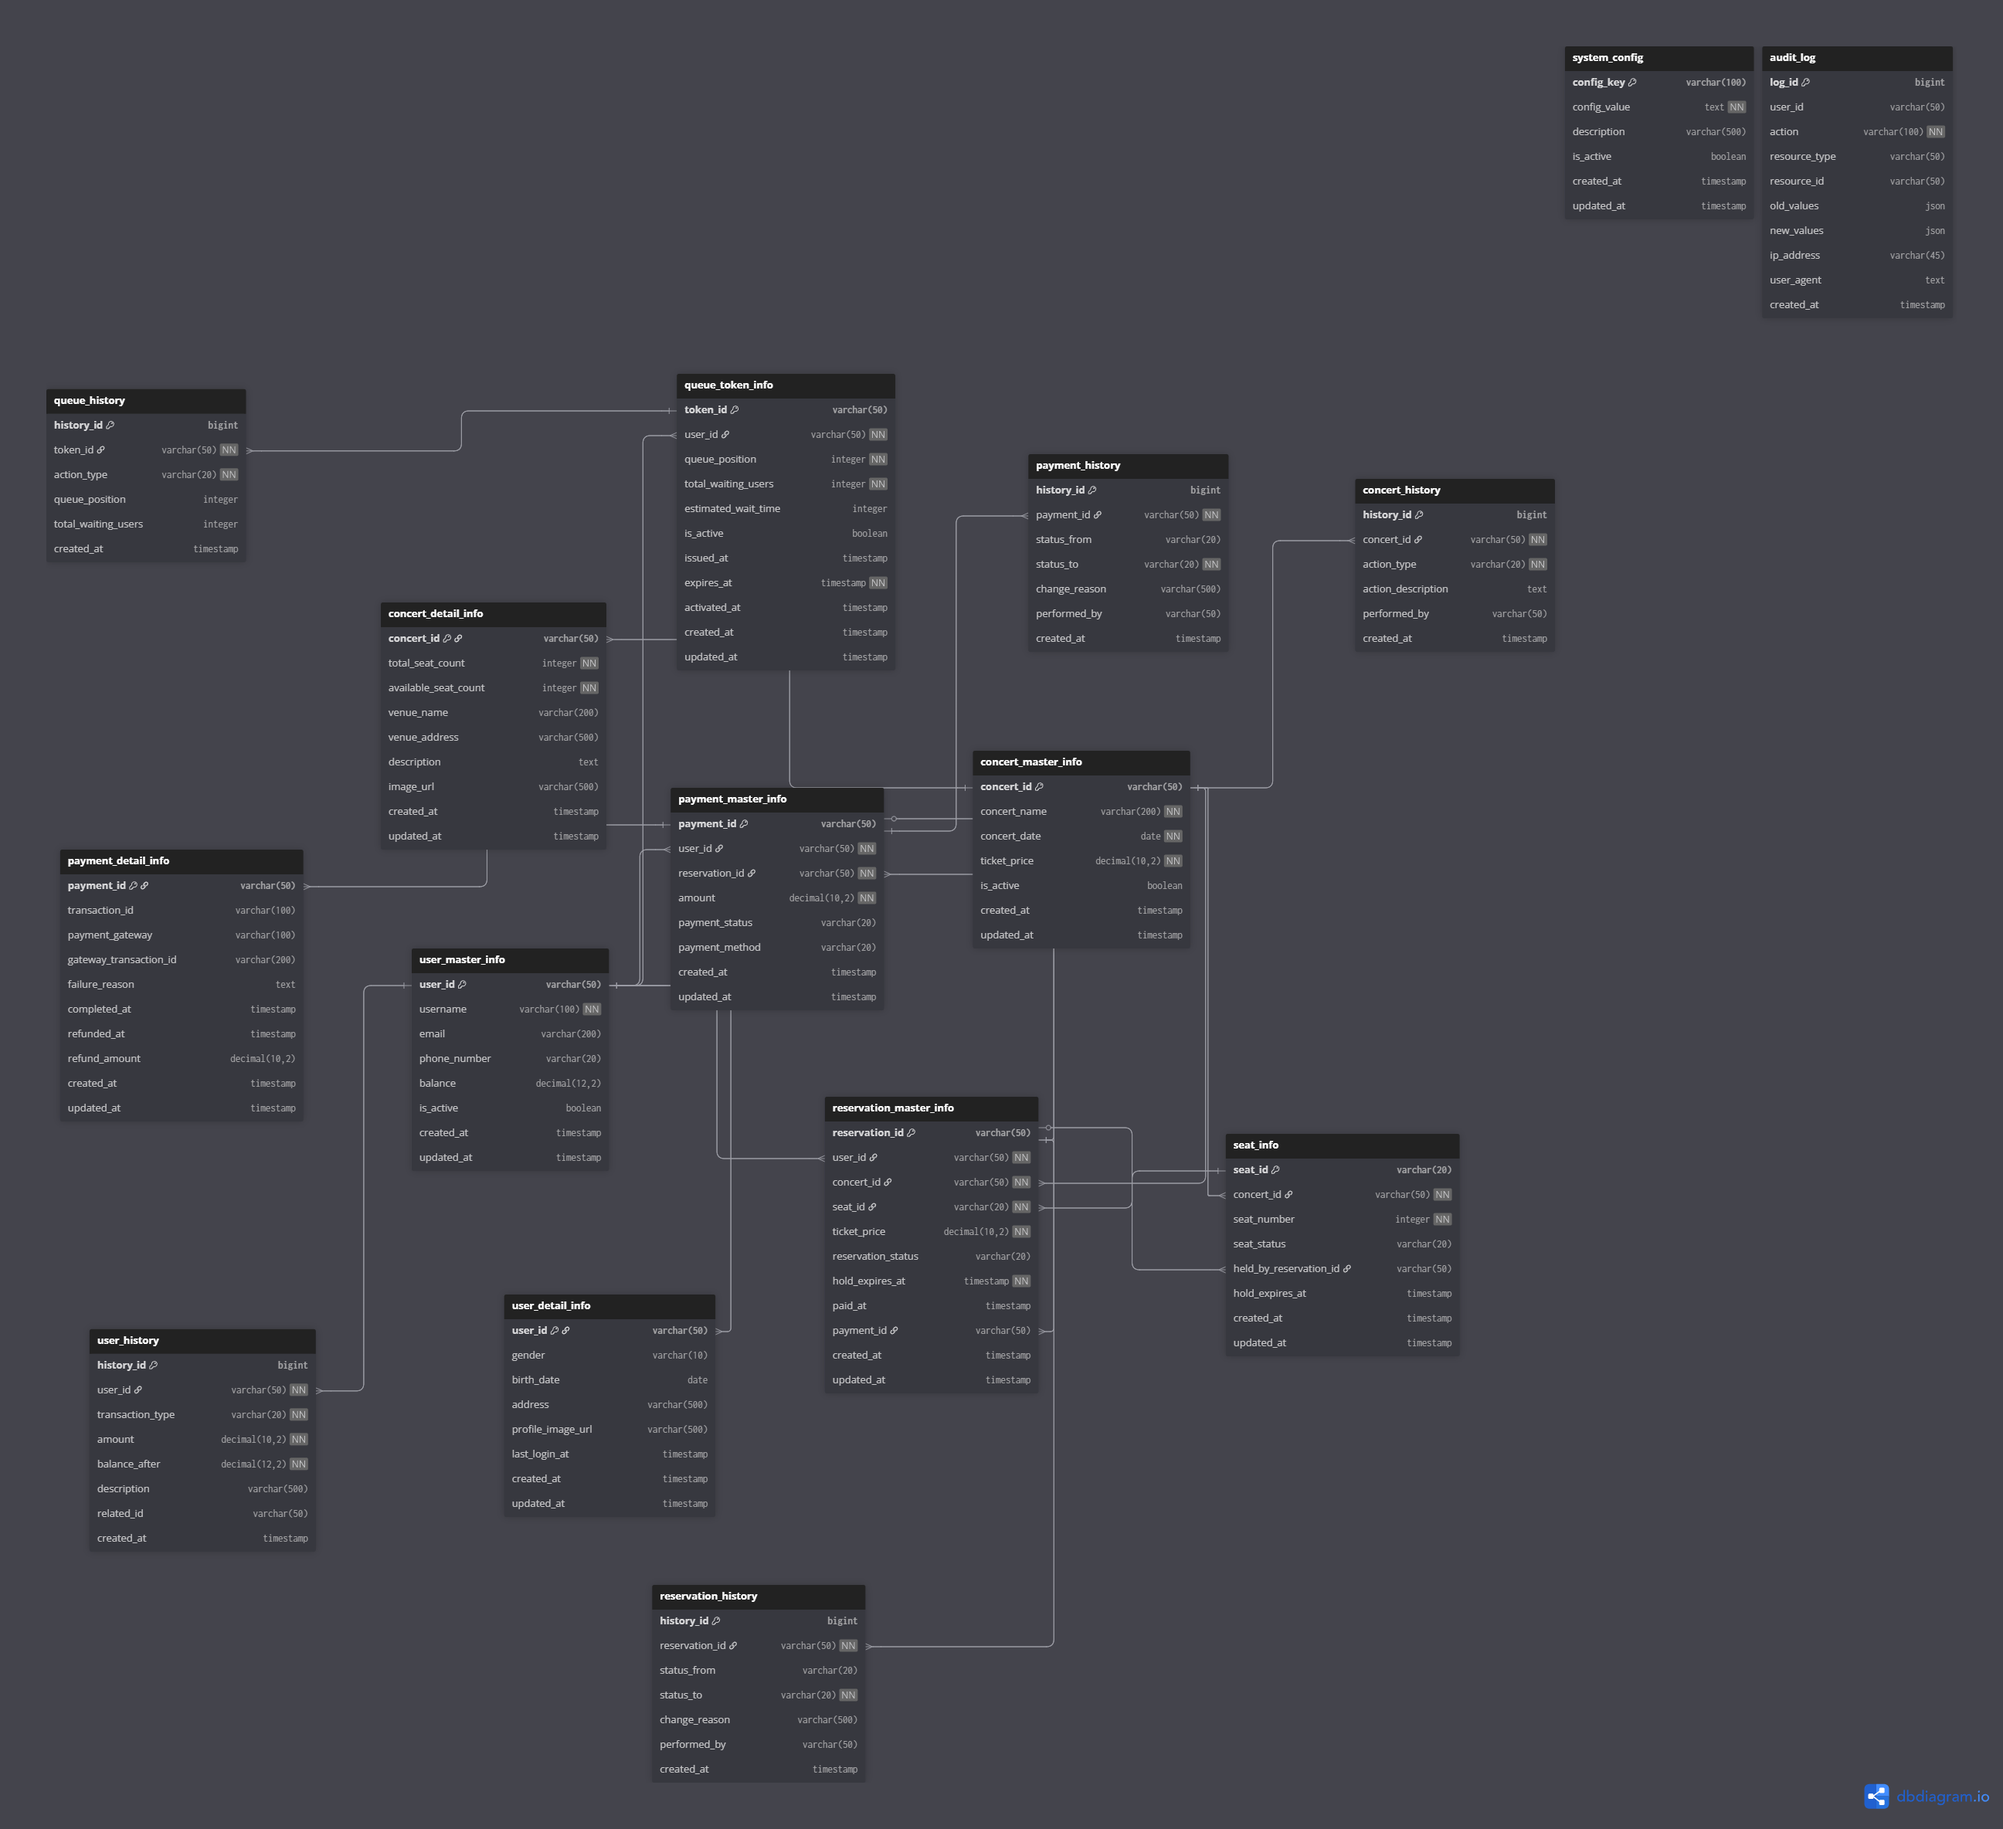
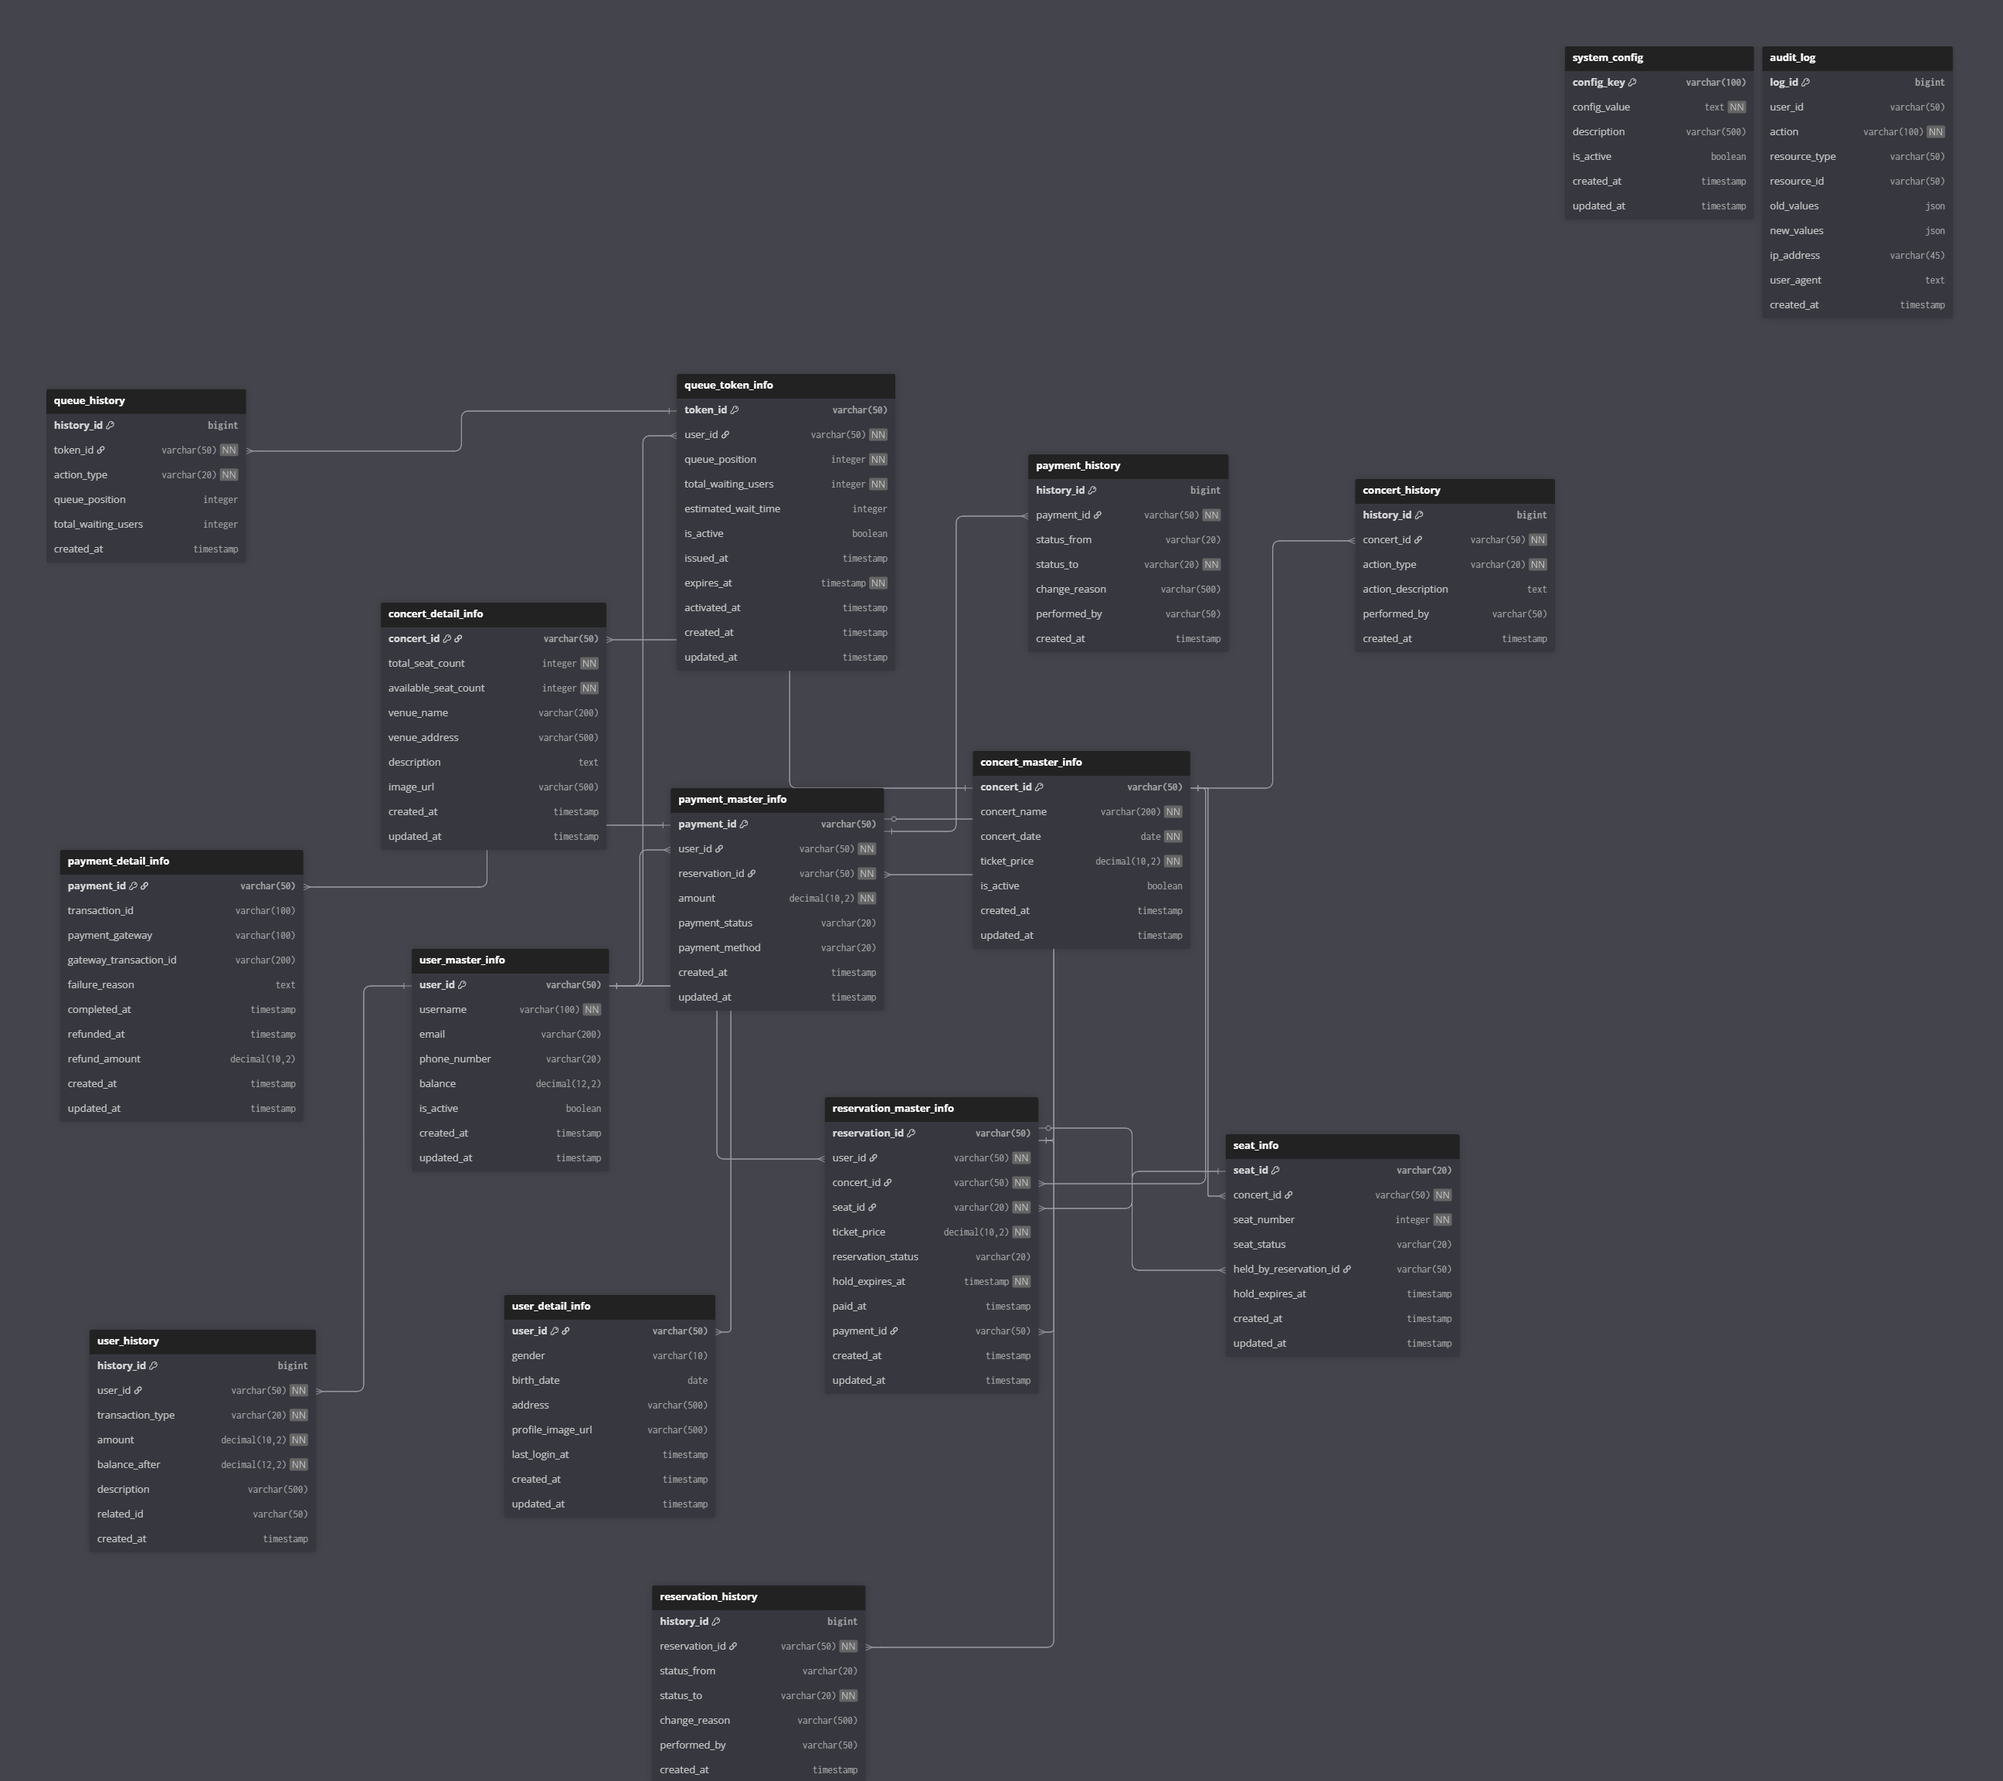
구성도 수정

diff --git a/docs/Infra_spec.md b/docs/Infra_spec.md
@@ -1,0 +1,73 @@
+1. AWS Cloud 기준 작성
+ (ROUTE53역할)
+www.example.com 같은 도메인 이름을 IP 주소로 변환해줌.
+
+ EC2 서버, ALB, CloudFront 같은 AWS 리소스에 도메인 연결할 때 필요.
+
+EC2, S3, ELB, CloudFront, API Gateway 같은 AWS 서비스에 바로 연결 가능.
+
+Route53이 지정한 엔드포인트를 주기적으로 체크해서 장애가 발생하면 자동으로 다른 리소스로 라우팅.
+
+
+
+
+ (ALB 역할)
+예를 들어 gyuseok.com 으로 요청시 “gyuseok.com = ALB 주소” 를 알려주는 역할.여기서 IP를 직접 주는 게 아니라, 보통은 ALB의 DNS 이름 (예: my-alb-123456.ap-northeas-2.elb.amazoaws.com)을 리턴함.
+
+ ALB는 DNS가 안내해준 트래픽을 받아서, 실제 백엔드 서버로 분산 처리
+
+이 그림에서는 로드벨런싱 역할이 주가 되어 사용할 것으로 작성함
+
+
+ (WAF 역할)
+ALB 랑 한 세트 ALB 가 로드밸런싱 헬스체크 등 서버로 분배를 처리한다면 WAF 는 스크립트 형식의 룰 설정을통해서 보안처리를 할 수 있
+
+공격 패턴 차단
+
+SQL Injection, XSS(스크립트 삽입) 같은 웹 공격 탐지 & 차단.
+
+AWS에서 제공하는 관리형 룰셋(Microsoft, Owasp Top 10 대응) 사용 가능.
+
+IP 기반 차단/허용
+
+특정 국가(GeoIP), 특정 IP 대역 블록.
+
+예: “중국, 러시아 IP는 차단” 같은 정책.
+
+Rate Limiting (속도 제한)
+
+같은 IP에서 너무 많은 요청이 오면 일정 횟수 이상 차단.
+
+디도스(DDoS) 완화.
+
+커스텀 룰 작성
+
+특정 URI, 헤더, 쿼리 파라미터 조건으로 룰 만들 수 있음.예: /admin 경로는 특정 IP에서만 접근 허용.
+
+
+ (WEB 역할)
+콘텐츠 처리 및 WAS 로 전달
+
+
+
+ (WAS역할)
+콘서트 예약 어플리케이션 실 구현
+
+ (REDIS 역할)
+AWS 에서 redis 를 제공하는지 처음알게 됨① 캐시(Cache)
+자주 조회하는 데이터를 Redis에 저장해두고 DB 접근 줄이기.
+② 세션 저장
+사용자가 로그인하면 세션 정보를 Redis에 저장.
+
+서버가 여러 대(WAS 멀티 인스턴스)일 때 세션을 공유할 수 있음.
+
+③ 분산 락
+여러 서버/스레드가 동시에 같은 자원에 접근할 때 충돌 방지.
+
+예: 동시에 두 명이 같은 좌석 예약하는 상황 → Redis 락으로 한 명만 성공하게 제어.
+
+④ 큐/스트림
+Redis Pub/Sub, Stream 기능으로 간단한 메시지 브로커 역할.
+
+⑤ Rate 
+특정 사용자가 너무 많은 요청을 보내면 Redis 카운터로 제한.

diff --git a/docs/API_Specification.md b/docs/API_Specification.md
@@ -9,20 +9,22 @@
 - [OpenAPI 3.0 스펙](./openapi.yaml) - API 스펙
 - [ERD 설계](./DBERD.png) - 데이터베이스 설계
 - [인프라 구성도](./INfra.png) - 시스템 아키텍처
+- [인프라 구성도 간단 설명](./Infra_spec.md) 
+
 
 
 ### 1. 대기열 시스템
-- **토큰 기반 인증**: 모든 API 호출 시 유효한 대기열 토큰 필요
-- **FIFO 순서 보장**: 먼저 요청한 사용자가 우선 서비스 이용
-- **동시 접근 제한**: 최대 100명의 사용자가 동시에 활성화 가능
-- **토큰 만료 관리**: 15분 유효 기간, 자동 정리
+-  토큰 기반 인증 : 모든 API 호출 시 유효한 대기열 토큰 필요
+-  FIFO 순서 보장 : 먼저 요청한 사용자가 우선 서비스 이용
+-  동시 접근 제한 : 최대 100명의 사용자가 동시에 활성화 가능
+-  토큰 만료 관리 : 설ㅈ정분 유효 기간, 자동 정리
 
 ### 2. 콘서트 및 좌석 관리
-- **콘서트 정보 조회**: 날짜별, 제목별 콘서트 검색
-- **좌석 상태 관리**: 실시간 좌석 상태 조회 (예약가능, 임시배정, 판매완료)
-- **임시 배정 시스템**: 5분간 좌석 임시 배정, 자동 만료
+-  콘서트 정보 조회 : 날짜별, 제목별 콘서트 검색
+-  좌석 상태 관리 : 실시간 좌석 상태 조회 (예약가능, 임시배정, 판매완료)
+-  임시 배정 시스템 : 5분간 좌석 임시 배정, 자동 만료
 
 ### 3. 예약 및 결제
-- **좌석 예약**: 임시 배정 후 결제 대기
-- **잔액 관리**: 충전, 조회, 거래 내역 추적
-- **결제 처리**: 잔액 차감, 예약 확정, 토큰 만료
+- 좌석 예약 : 임시 배정 후 결제 대기
+- 잔액 관리 : 충전, 조회, 거래 내역 추적
+-  결제 처리 : 잔액 차감, 예약 확정, 토큰 만료
